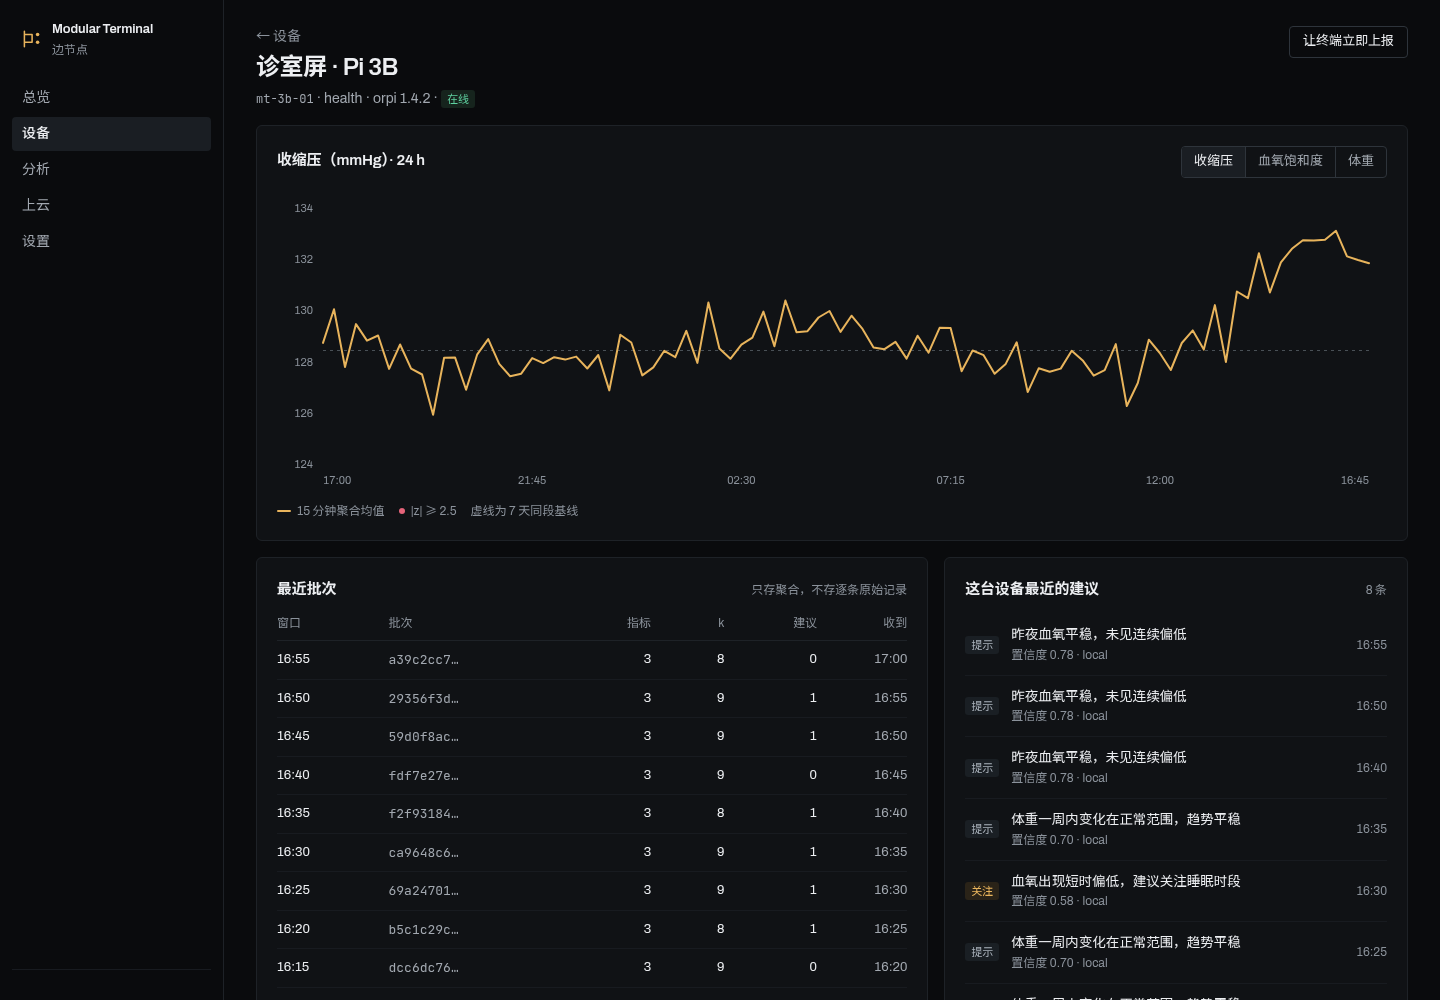
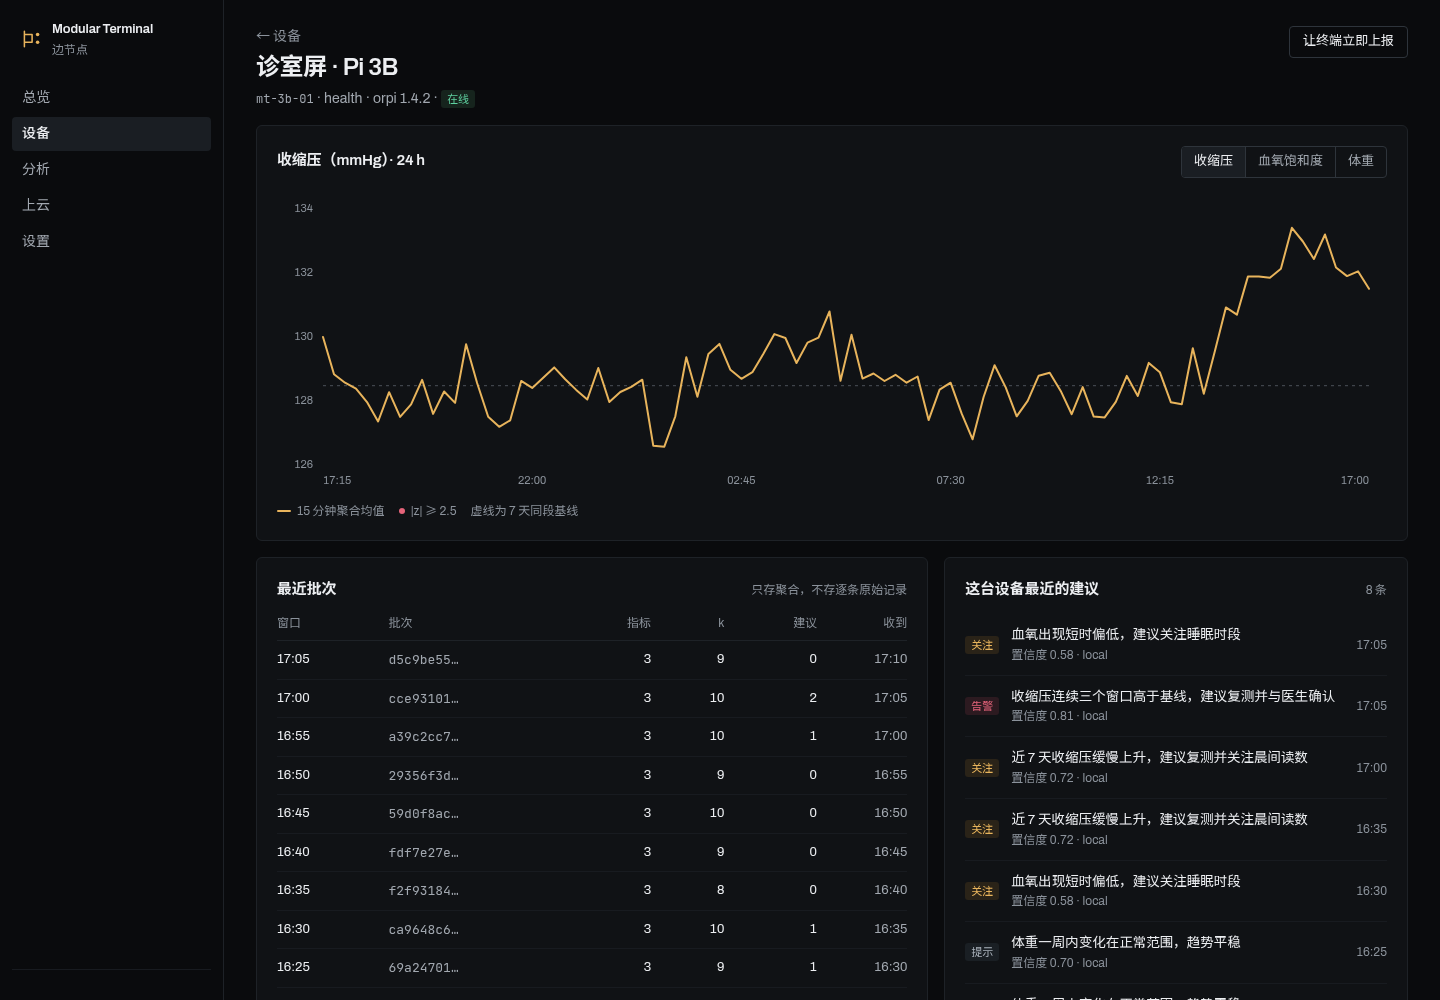
fix(edge): 链路带不再把抑制误读成掉线
- 抑制改为按「指标 × 窗口」发生，整批照常上报，链路带连续
- 启动时补齐空窗口，之后每 5 分钟自动追加一个（EDGE_SIM=0 关闭）
- 窄屏下 24 个到达格子封顶宽度，不再变成粗条
- \#/overview 作为 \#/ 的别名
- 重新生成截图

diff --git a/edge/static/app.css b/edge/static/app.css
@@ -200,7 +200,9 @@ h3 { margin: 0; font-size: 14px; font-weight: 600; }
 .lane-scene { font-size: 11px; color: var(--faint); border: 1px solid var(--border); border-radius: var(--chip, 3px); padding: 0 5px; line-height: 15px; }
 .lane-id { font-family: var(--mono); font-size: 11px; color: var(--faint); margin-left: auto; }
 
-.ticks { display: flex; gap: 2px; margin: 12px 0 10px; height: 18px; align-items: flex-end; }
+.ticks { display: flex; gap: 2px; margin: 12px 0 10px; height: 18px; align-items: flex-end;
+  /* 窄屏会把 lane 拉满宽，不封顶的话 24 个格子会变成粗条 */
+  max-width: 430px; }
 .tick {
   flex: 1; height: 18px; border-radius: 1px;
   background: #23282e;
@@ -208,7 +210,7 @@ h3 { margin: 0; font-size: 14px; font-weight: 600; }
 .tick.got { background: #565f69; }
 .tick.now { background: var(--accent); }
 .tick.miss { background: transparent; box-shadow: inset 0 0 0 1px #1e2227; }
-.ticks-legend { display: flex; justify-content: space-between; font-size: 11px; color: var(--faint); }
+.ticks-legend { display: flex; justify-content: space-between; font-size: 11px; color: var(--faint); max-width: 430px; }
 
 .lane-foot {
   display: flex; align-items: baseline; justify-content: space-between;

diff --git a/edge/static/app.js b/edge/static/app.js
@@ -722,6 +722,7 @@ async function viewSettings() {
 
 const routes = [
   [/^#\/$/, viewOverview, "overview"],
+  [/^#\/overview$/, viewOverview, "overview"],
   [/^#\/devices$/, viewDevices, "devices"],
   [/^#\/devices\/(.+)$/, (m) => viewDevice(decodeURIComponent(m[1])), "devices"],
   [/^#\/analysis$/, viewAnalysis, "analysis"],

diff --git a/edge/sim.py b/edge/sim.py
@@ -153,11 +153,13 @@ def generate(days: int = 7) -> dict[str, int]:
                 h = (ts / 3600_000) % 24
                 day_index = (ts - start) / 86_400_000
                 aggs, adv_out = [], []
-                # 轮换：多数窗口 8–10 人；少量窗口只剩 4 人 → 抑制
+                # 轮换：8–10 人上报。抑制按「指标 × 窗口」发生（某个模块掉线），
+                # 整批仍然会发出，所以链路带看起来是连续的。
                 subjects = 8 + rnd.randint(0, 2)
-                if rnd.random() < 0.06:
-                    subjects = 4
                 for m in _metrics_for(dev):
+                    if rnd.random() < 0.05:
+                        suppressed += 1
+                        continue
                     v = _value(m, h, day_index) + rnd.gauss(0, NOISE[m])
                     z_spike = _spike(m, ts, 7)
                     if z_spike:
@@ -172,9 +174,6 @@ def generate(days: int = 7) -> dict[str, int]:
                     z = (v - mu) / sd
                     v_prev = _value(m, h - window / 3600_000, day_index) + rnd.gauss(0, NOISE[m])
                     slope = v - v_prev
-                    if subjects < config.K_MIN:
-                        suppressed += 1
-                        continue
                     from . import metrics
                     aggs.append({
                         "metric": m, "module_id": metrics.METRICS[m].module_id,
@@ -186,7 +185,8 @@ def generate(days: int = 7) -> dict[str, int]:
                     if a:
                         adv_out.append(a)
 
-                # 被抑制的窗口也要更新 last_seen：终端确实上报了，只是没有可入库的桶
+                # 所有指标都被抑制的极端窗口也要更新 last_seen：
+                # 终端确实上报了，只是没有可入库的桶。
                 if not aggs:
                     conn.execute("UPDATE devices SET last_seen=? WHERE device_id=?",
                                  (ts + window, dev))
@@ -198,7 +198,7 @@ def generate(days: int = 7) -> dict[str, int]:
                     "window": {"from": ts, "to": ts + window, "step_ms": window},
                     "aggregates": aggs, "advice": adv_out,
                     "privacy": {"k": min(a["k"] for a in aggs), "pseudonym": "hmac16",
-                                "raw": False, "suppressed": 1 if subjects < config.K_MIN else 0},
+                                "raw": False, "suppressed": 0},
                 }
                 conn.execute(
                     """INSERT OR REPLACE INTO telemetry
@@ -229,9 +229,9 @@ def generate(days: int = 7) -> dict[str, int]:
     return {"batches": inserted, "suppressed": suppressed, "days": days}
 
 
-def append_window() -> int:
-    """模拟一次 report_now：只追加当前窗口。"""
-    now = store.now_ms() // config.WINDOW_MS * config.WINDOW_MS
+def append_window(ts: int | None = None) -> int:
+    """模拟一次上报：追加一个窗口（默认当前窗口）。"""
+    now = ts or (store.now_ms() // config.WINDOW_MS * config.WINDOW_MS)
     rnd = random.Random(now)
     n = 0
     from . import analysis, metrics
@@ -262,4 +262,21 @@ def append_window() -> int:
                            now, now + config.WINDOW_MS, payload, aggs, adv_out)
         n += 1
     analysis.rebuild_words()
+    return n
+
+
+def backfill(max_windows: int = 288) -> int:
+    """把最后一个批次到现在的空窗口补齐，演示环境不会显示成「断线」。"""
+    window = config.WINDOW_MS
+    current = store.now_ms() // window * window
+    with store.connect() as conn:
+        row = conn.execute("SELECT MAX(ts_to) AS m FROM telemetry").fetchone()
+    last = row["m"] or (current - window)
+    start = max(last, current - max_windows * window)
+    n = 0
+    ts = start
+    while ts < current:
+        append_window(ts)
+        ts += window
+        n += 1
     return n

diff --git a/edge/main.py b/edge/main.py
@@ -1,12 +1,14 @@
 """应用入口：python3 -m edge.main 或 uvicorn edge.main:app。"""
 from __future__ import annotations
 
+import asyncio
+import contextlib
 import os
 
 from fastapi import FastAPI
 from fastapi.staticfiles import StaticFiles
 
-from . import api, config, store
+from . import api, config, sim, store
 
 DESCRIPTION = """\
 边节点管理软件：接收端侧假名聚合、做趋势/热力/词云分析、按小时打包上报云端。
@@ -16,14 +18,36 @@ DESCRIPTION = """\
 """
 
 
+async def _ticker() -> None:
+    """演示用：每 5 分钟补一个窗口，省得界面看起来像断了线。
+
+    EDGE_SIM=0 关掉；没有演示设备（mt-3b-01）时也不会启动。
+    """
+    while True:
+        await asyncio.sleep(config.WINDOW_MS / 1000)
+        await asyncio.to_thread(sim.backfill, 12)
+
+
+@contextlib.asynccontextmanager
+async def lifespan(app: FastAPI):
+    task = None
+    if os.environ.get("EDGE_SIM", "1") != "0" and store.device("mt-3b-01"):
+        await asyncio.to_thread(sim.backfill, 288)
+        task = asyncio.create_task(_ticker())
+    yield
+    if task:
+        task.cancel()
+        with contextlib.suppress(asyncio.CancelledError):
+            await task
+
+
 def create_app() -> FastAPI:
     store.init_db()
-    if os.environ.get("EDGE_AUTOSEED") == "1":
-        from . import sim
-        if not store.devices():
-            sim.generate(7)
+    if os.environ.get("EDGE_AUTOSEED") == "1" and not store.devices():
+        sim.generate(7)
     app = FastAPI(title="Modular Terminal Edge", version="1.0.0",
-                  description=DESCRIPTION, docs_url="/api/docs", redoc_url=None)
+                  description=DESCRIPTION, docs_url="/api/docs", redoc_url=None,
+                  lifespan=lifespan)
     app.include_router(api.router)
     app.mount("/", StaticFiles(directory=config.STATIC, html=True), name="static")
     return app
